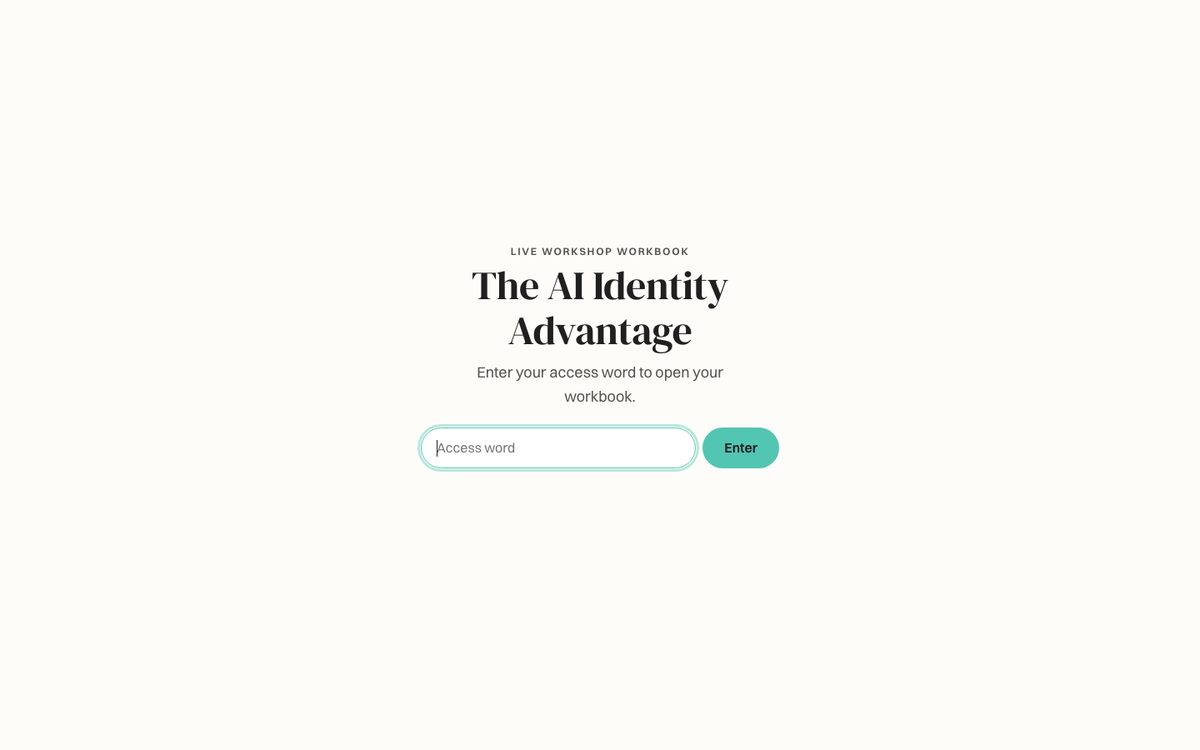
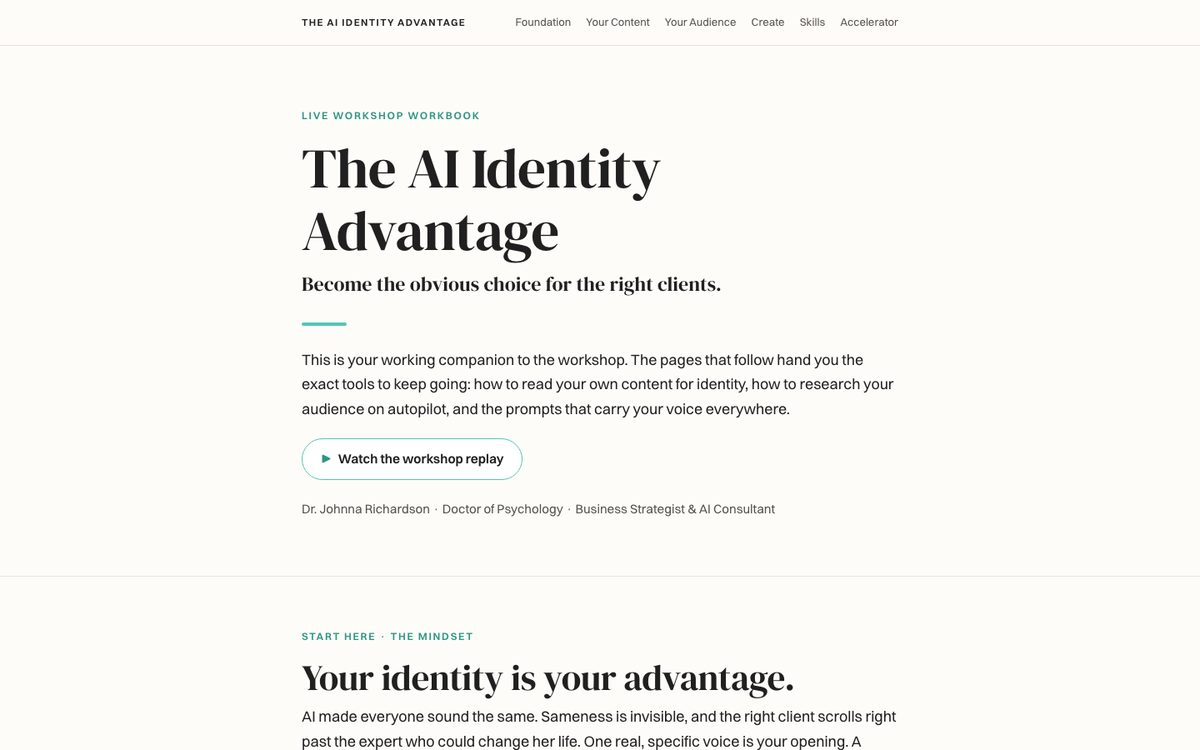
Portfolio-wide visuals, retire Aligned card, gate Gold Offer, demo invitation
Sales drops the active Accelerator sales page. The workbook card
shows the unlocked hero (captured from local source past the soft
gate). Feedback and carousel cards get live captures with links.
Gold Offer Coach shows its private-access screen with no public
link. The CTA gains a live-demo invitation.

diff --git a/builds.html b/builds.html
@@ -184,13 +184,7 @@
         <em>Buying is a trust decision before it is a money decision. Clarity earns trust faster than persuasion.</em>
       </p>
 
-      <div class="exhibit-grid exhibit-grid-2x2">
-        <article class="exhibit-card">
-          <h3 class="exhibit-name">The Aligned Business Accelerator sales page</h3>
-          <p class="exhibit-desc">A full conversion page for an eight-week program.</p>
-          <a href="https://aligned.drjohnna.co" class="view-live" target="_blank" rel="noopener">View live <span aria-hidden="true">↗</span></a>
-        </article>
-
+      <div class="exhibit-grid exhibit-grid-21">
         <article class="exhibit-card">
           <h3 class="exhibit-name">Corporate Proposal Generator</h3>
           <p class="exhibit-desc">Call notes in. A branded live proposal with a payment button out, the same day.</p>
@@ -237,7 +231,7 @@
           <h3 class="exhibit-name">AI Identity Advantage Workbook</h3>
           <p class="exhibit-desc">A fully interactive workshop workbook. Not a PDF. An experience.</p>
           <img src="assets/builds/advantage-workbook.jpg"
-               alt="The AI Identity Advantage workbook access screen, asking clients for their access word."
+               alt="The AI Identity Advantage workbook. A serif headline, a workshop replay button, and a menu of six workbook sections."
                loading="lazy"
                width="1200"
                height="750"
@@ -248,6 +242,14 @@
         <article class="exhibit-card">
           <h3 class="exhibit-name">Client Feedback System</h3>
           <p class="exhibit-desc">Structured feedback that clients actually complete.</p>
+          <a href="https://feedback.drjohnna.co" target="_blank" rel="noopener" class="shot-link" aria-label="Open the live client feedback form">
+            <img src="assets/builds/feedback-system.jpg"
+                 alt="The client feedback form titled Your Reflection, with a star rating and short written questions."
+                 loading="lazy"
+                 width="1200"
+                 height="750"
+                 class="shot-img">
+          </a>
           <a href="https://feedback.drjohnna.co" class="view-live" target="_blank" rel="noopener">View live <span aria-hidden="true">↗</span></a>
         </article>
       </div>
@@ -271,6 +273,14 @@
         <article class="exhibit-card">
           <h3 class="exhibit-name">Carousel Autopilot</h3>
           <p class="exhibit-desc">A topic in. Finished, on-brand carousel slides out, rendered automatically and ready to post.</p>
+          <a href="https://carousel.drjohnna.co" target="_blank" rel="noopener" class="shot-link" aria-label="Open the live carousel maker">
+            <img src="assets/builds/carousel-maker.jpg"
+                 alt="The carousel maker app. A dark editor with an AI generate panel, a slide preview, and brand controls."
+                 loading="lazy"
+                 width="1200"
+                 height="750"
+                 class="shot-img">
+          </a>
           <a href="https://carousel.drjohnna.co" class="view-live" target="_blank" rel="noopener">View live <span aria-hidden="true">↗</span></a>
         </article>
 
@@ -387,7 +397,13 @@
         <article class="exhibit-card">
           <h3 class="exhibit-name">Gold Offer Coach</h3>
           <p class="exhibit-desc">An AI coaching bot trained on my Gold Offer framework, walking entrepreneurs through their signature offer.</p>
-          <a href="https://goldoffer.drjohnna.co" class="view-live" target="_blank" rel="noopener">View live <span aria-hidden="true">↗</span></a>
+          <img src="assets/builds/gold-offer-coach.jpg"
+               alt="The Gold Offer Coach private access screen, asking for an access code."
+               loading="lazy"
+               width="1200"
+               height="750"
+               class="shot-img">
+          <p class="exhibit-caption">Client access only.</p>
         </article>
       </div>
     </section>
@@ -611,6 +627,10 @@
 
       <p class="cta-sub">
         Whether you need one tool that removes a weekly headache or a system that runs a whole operation, the first step is the same. A conversation about your business and what alignment looks like for you.
+      </p>
+
+      <p class="cta-sub">
+        Want to see any of these builds in action? Reach out and I'll give you a live demo.
       </p>
 
       <a href="https://consult.drjohnna.co" class="pill-cta pill-cta-large" target="_blank" rel="noopener">
